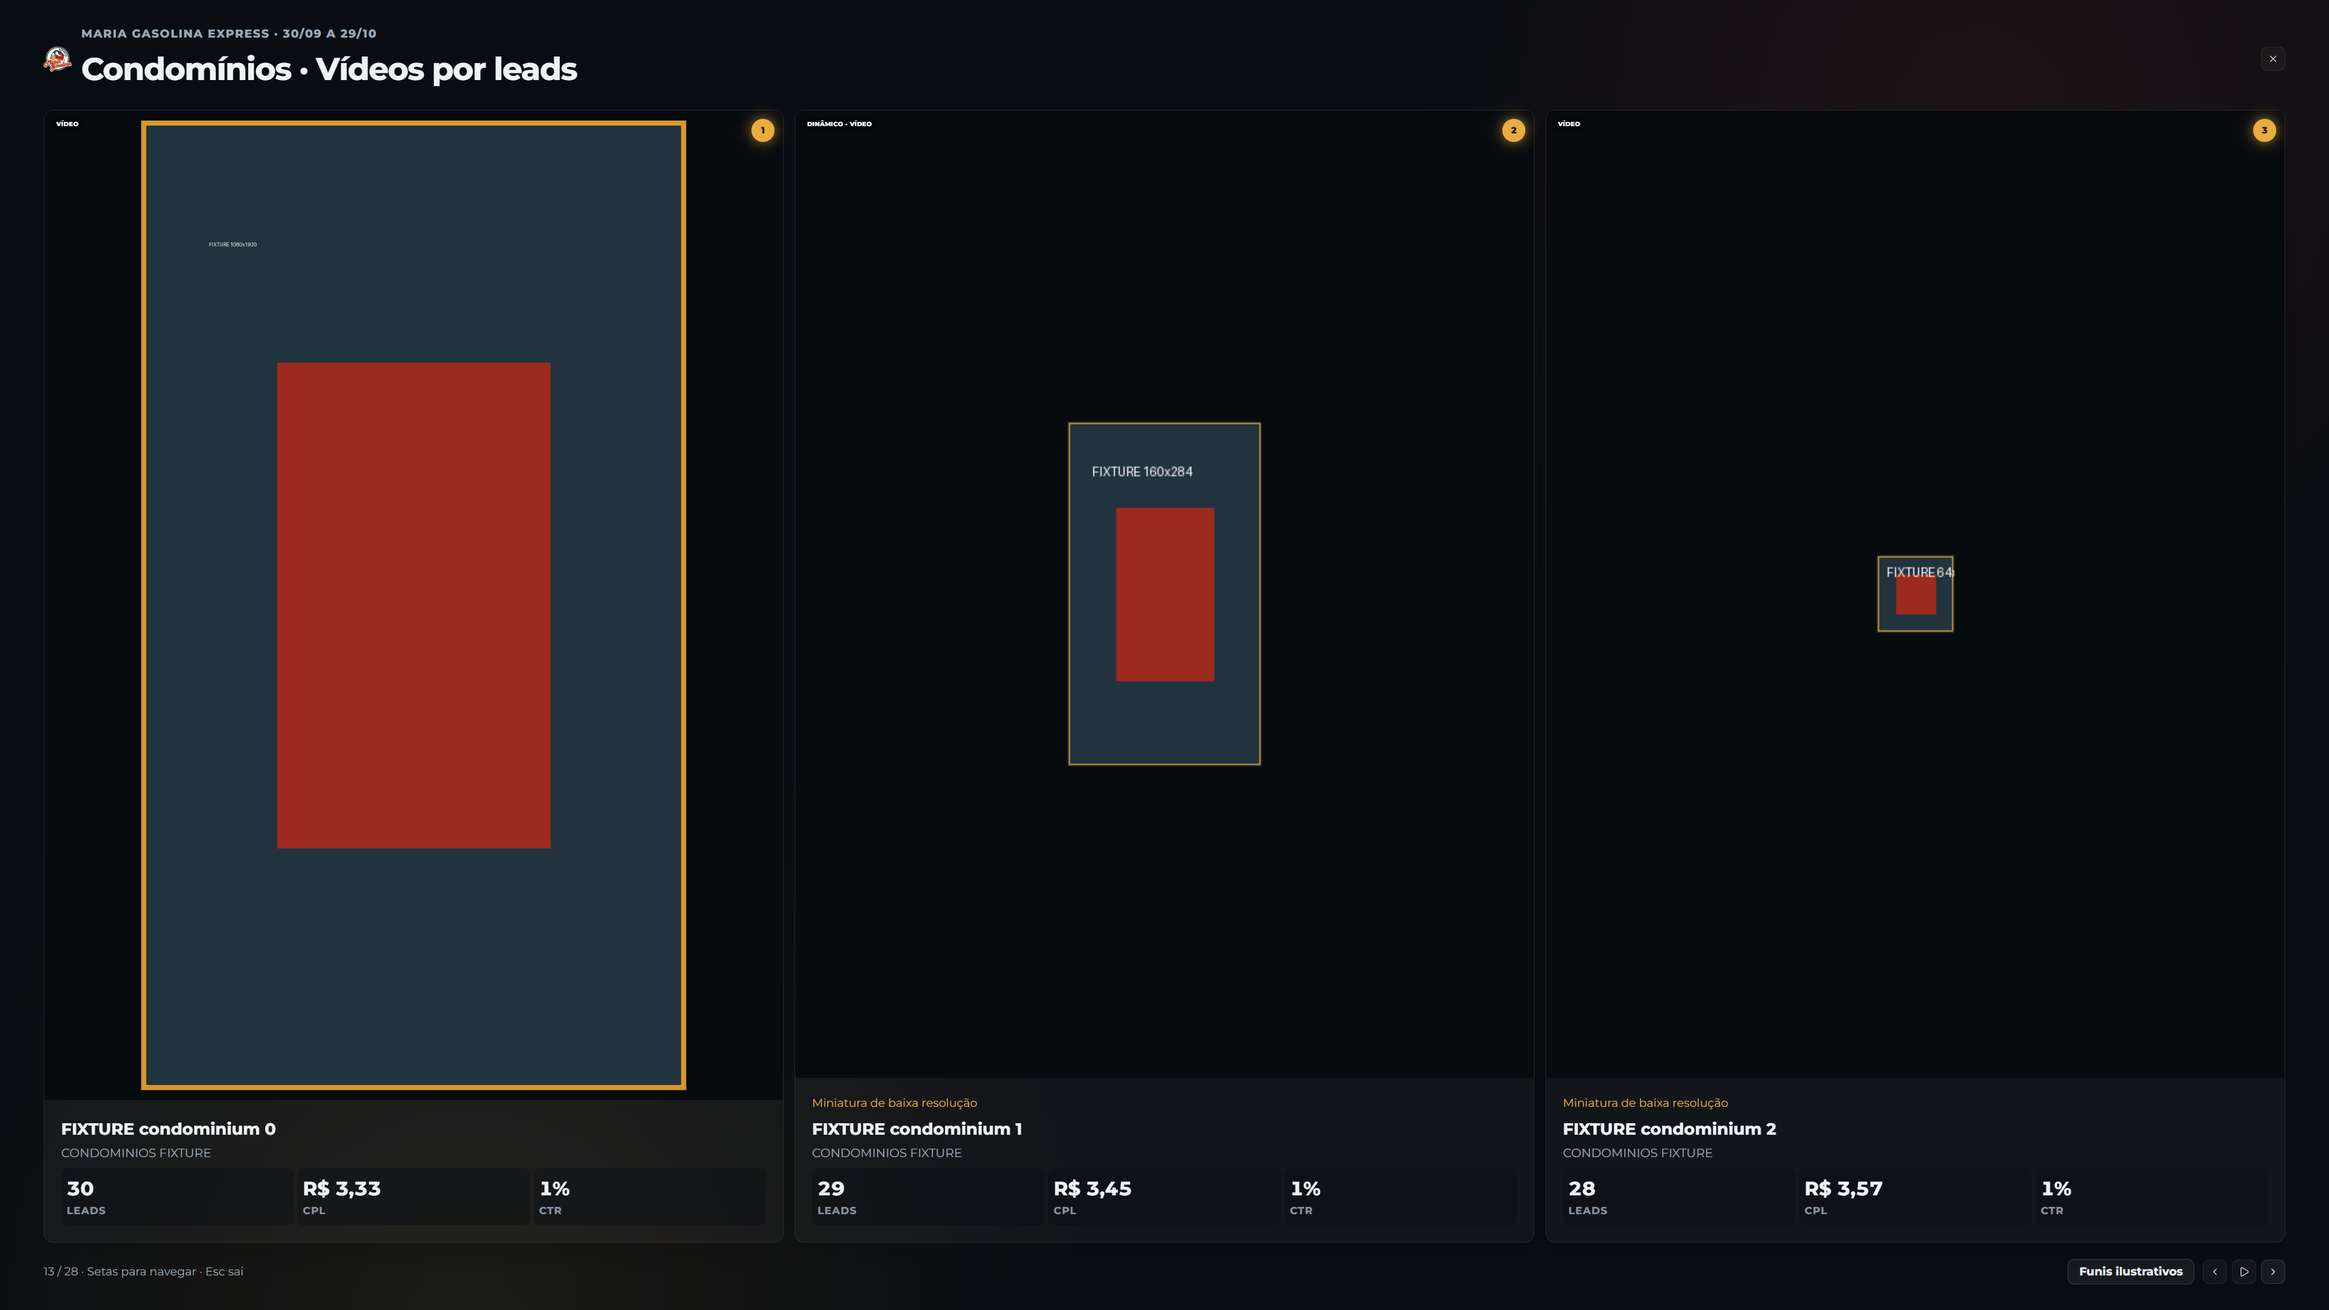
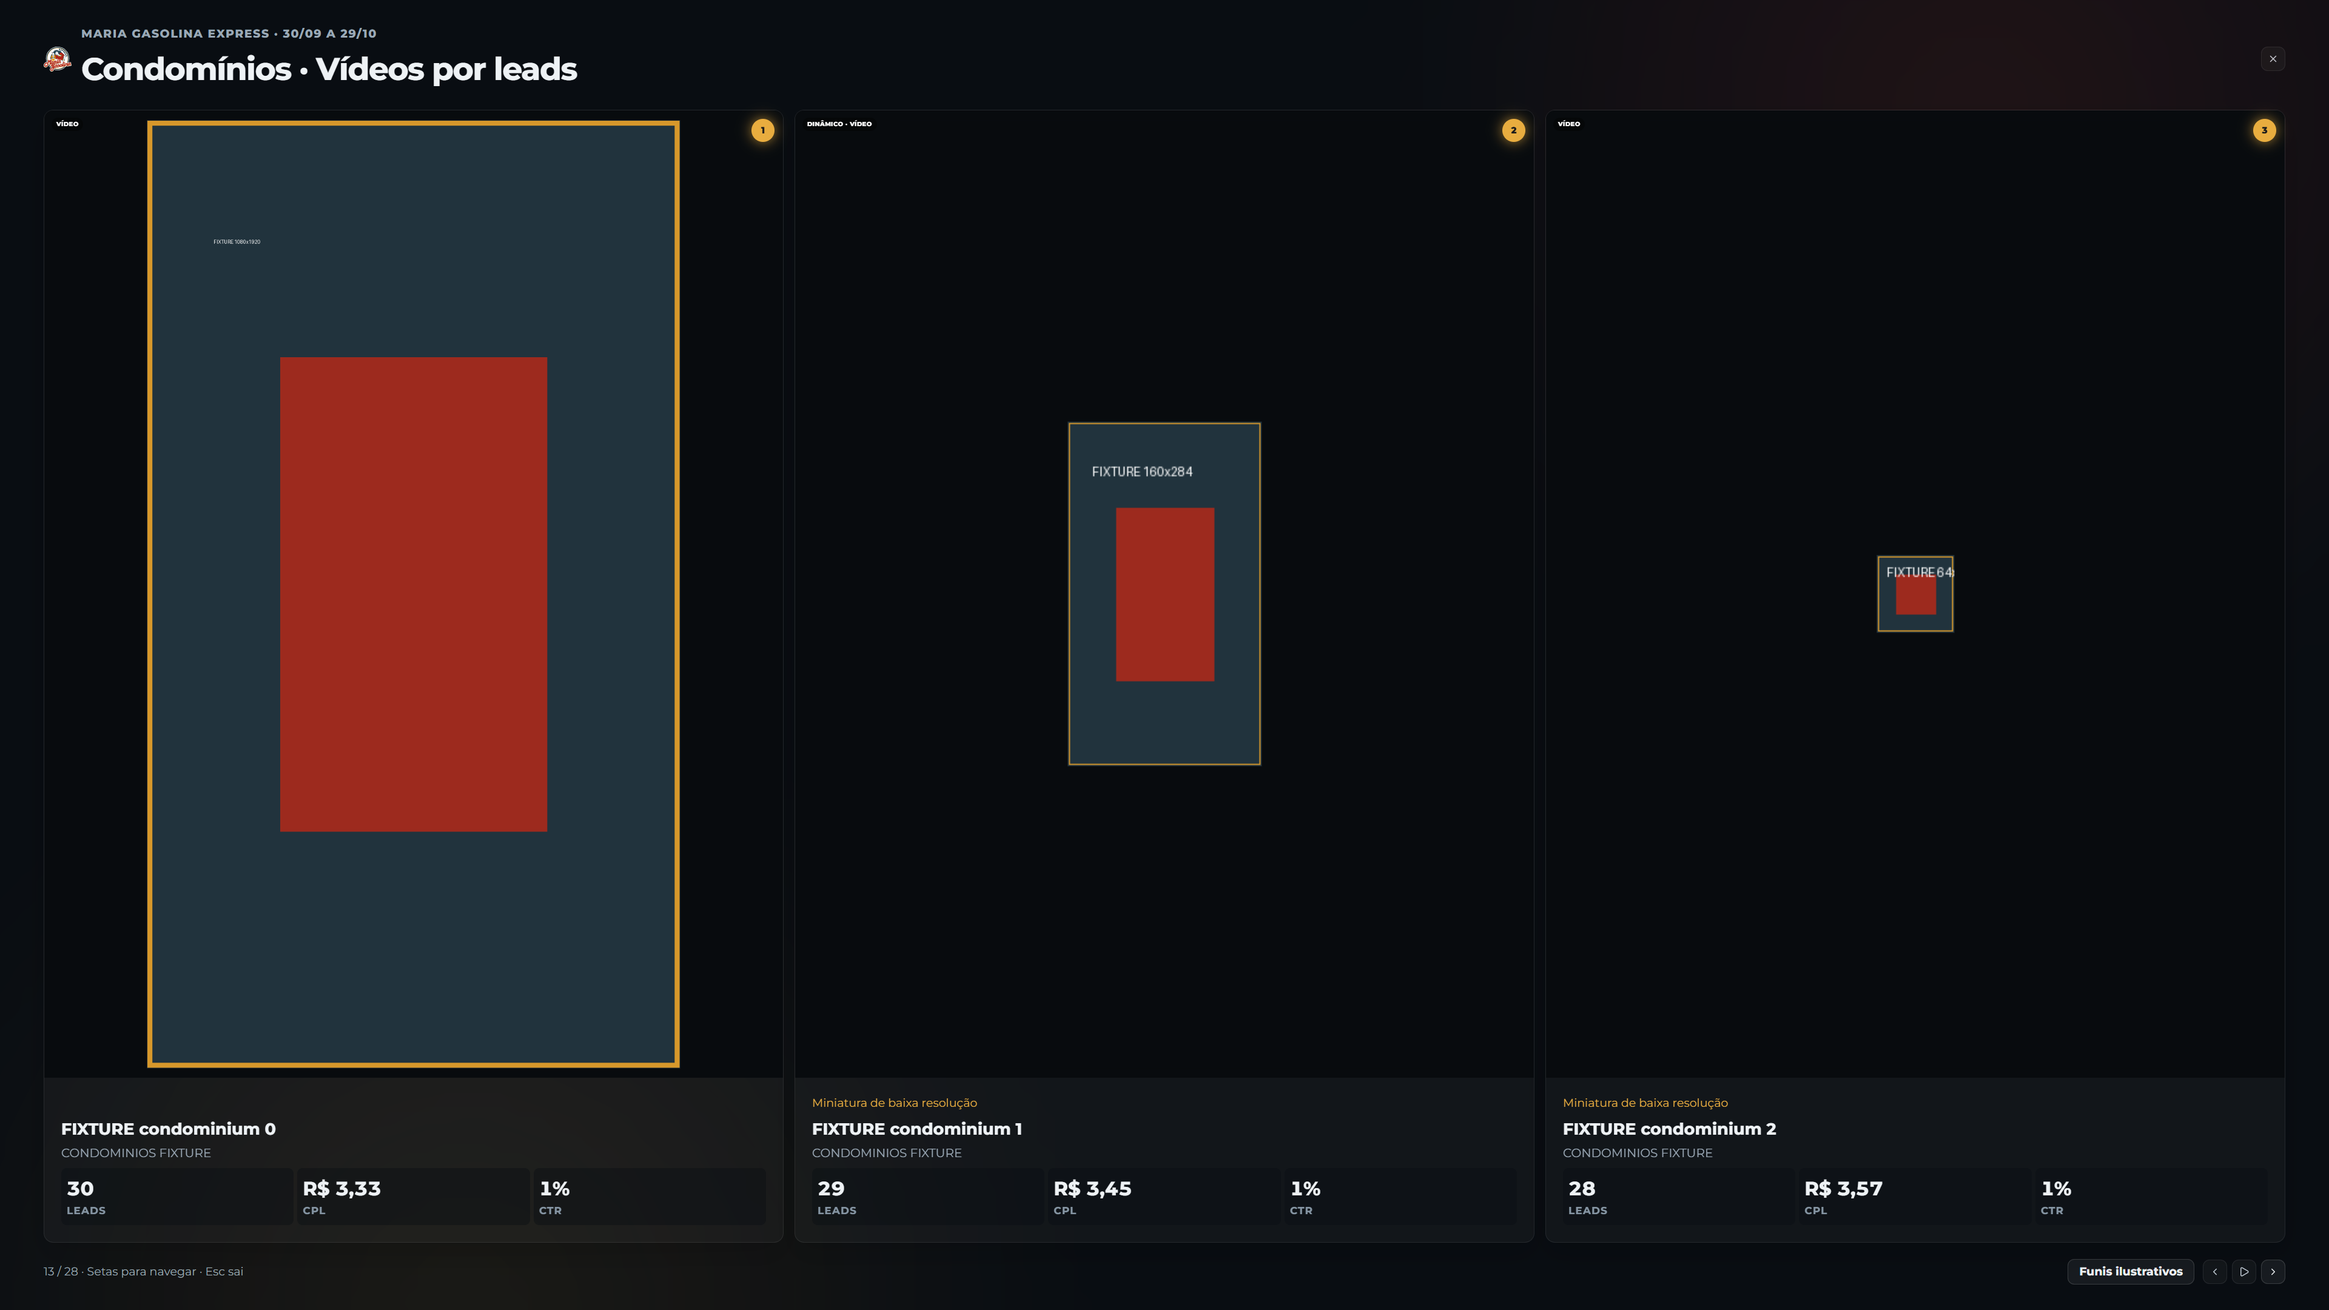
fix(creatives): standardize both card containers at 9:16

Changed region(s): [[0.0625, 0.0931, 0.3125, 0.8375], [0.125, 0.6204, 0.25, 0.6514], [0.125, 0.2481, 0.2188, 0.2792]]

diff --git a/src/styles.css b/src/styles.css
@@ -540,7 +540,7 @@ tbody tr:hover { background: var(--surface-2); }
 
 /* ------------------------------------------------------------ creatives */
 .creative-grid { display: grid; grid-template-columns: repeat(3, minmax(0, 1fr)); gap: 18px; }
-.creative { position: relative; min-width: 0; overflow: hidden; border-radius: 16px; border: 1px solid var(--line); background: var(--surface); transition: transform .35s cubic-bezier(.2,.7,.2,1), box-shadow .35s, border-color .25s; }
+.creative { display: flex; flex-direction: column; position: relative; min-width: 0; overflow: hidden; border-radius: 16px; border: 1px solid var(--line); background: var(--surface); transition: transform .35s cubic-bezier(.2,.7,.2,1), box-shadow .35s, border-color .25s; }
 .creative-top { box-shadow: 0 18px 46px rgba(0,0,0,.14); }
 .creative:hover { transform: perspective(1000px) translateY(-5px) rotateX(var(--tilt-x, 2deg)) rotateY(var(--tilt-y, 0deg)); border-color: var(--line-2); box-shadow: var(--shadow); }
 .creative-art { position: relative; aspect-ratio: 4 / 5; display: flex; align-items: flex-end; padding: 16px; color: #fff; background: linear-gradient(135deg, var(--c1), var(--c2)); }
@@ -549,7 +549,7 @@ tbody tr:hover { background: var(--surface-2); }
 .creative-zoom img { display: block; width: 100%; height: 100%; object-fit: contain; }
 .creative-art-preview { background: #080b0e; }
 .creative-art-vertical { aspect-ratio: 9 / 16; }
-.creative-art-static { aspect-ratio: 4 / 5; }
+.creative-art-static { aspect-ratio: 9 / 16; }
 .creative-art-static.creative-art-preview { background: var(--surface-2); }
 .creative-section-head { flex-wrap: wrap; gap: 14px; }
 .creative-section-head > div:first-child { flex: 1 1 260px; min-width: 0; }
@@ -564,8 +564,9 @@ tbody tr:hover { background: var(--surface-2); }
 .creative-art .format { position: absolute; top: 12px; left: 12px; z-index: 2; display: inline-flex; align-items: center; gap: 5px; padding: 4px 8px; border-radius: 999px; background: rgba(0,0,0,.4); backdrop-filter: blur(8px); font-size: 9.5px; font-weight: 800; text-transform: uppercase; letter-spacing: .08em; pointer-events: none; }
 .creative-art .rank { position: absolute; top: 14px; right: 14px; z-index: 2; display: grid; place-items: center; width: 38px; height: 38px; border-radius: 50%; background: var(--gold); color: #1b1b1b; font-size: 15px; font-weight: 850; box-shadow: 0 0 22px color-mix(in srgb, var(--gold) 75%, transparent); pointer-events: none; }
 .creative-art .rank-secondary { width: 30px; height: 30px; background: rgba(10,13,17,.72); color: #fff; border: 1px solid rgba(255,255,255,.32); box-shadow: none; font-size: 12px; }
-.creative-body { padding: 16px; }
-.creative-copy { min-width: 0; }
+.creative-body { padding: 16px; display: flex; flex-direction: column; flex: 1; }
+.creative-status { min-height: 24px; }
+.creative-copy { min-width: 0; flex: 1; }
 .creative-copy strong { display: -webkit-box; min-height: 38px; overflow: hidden; color: var(--text); font-size: 13px; font-weight: 750; line-height: 1.45; -webkit-box-orient: vertical; -webkit-line-clamp: 2; }
 .creative-copy small { display: block; margin-top: 5px; color: var(--muted); font-size: 10.5px; overflow: hidden; text-overflow: ellipsis; white-space: nowrap; }
 .creative-stats { margin-top: 10px; display: grid; grid-template-columns: repeat(3, 1fr); gap: 6px; }

diff --git a/tests/creative-categories.spec.ts b/tests/creative-categories.spec.ts
@@ -38,6 +38,8 @@ for (const [width, height] of [[1440, 1000], [390, 844]]) {
       await expect(section.getByRole("tab")).toHaveText(["Vídeos", "Estáticos"]);
       const kpis = await page.locator("[data-testid=front-individual] .kpi-value").allTextContents();
       await capture(page, `${front}-${width}-videos`);
+      const heights=await section.locator(".creative").evaluateAll(els=>els.map(el=>(el as HTMLElement).offsetHeight));
+      expect(Math.max(...heights)-Math.min(...heights)).toBeLessThanOrEqual(1);
       await section.getByRole("button", { name: "Ver mais criativos", exact: true }).click();
       await expect(section.locator(".creative")).toHaveCount(9);
       await imagesLoaded(page);
@@ -59,7 +61,7 @@ for (const [width, height] of [[1440, 1000], [390, 844]]) {
       await imagesLoaded(page);
       expect(await section.locator(".rank").allTextContents()).toEqual(["1","2","3","4","5","6","7","8","9"]);
       const art = await section.locator(".creative-art").evaluateAll(els=>els.map(el=>{const r=el.getBoundingClientRect();return {ratio:r.width/r.height,height:r.height};}));
-      for(const box of art) expect(box.ratio).toBeCloseTo(4/5,2);
+      for(const box of art) expect(box.ratio).toBeCloseTo(9/16,2);
       expect(Math.max(...art.map(a=>a.height))-Math.min(...art.map(a=>a.height))).toBeLessThan(1);
       expect(await section.locator(".creative img").evaluateAll(imgs=>imgs.every(img=>getComputedStyle(img).objectFit==="contain"))).toBe(true);
       for(const [index,dimensions] of [[12,"1080 × 1920"],[13,"1920 × 1080"]] as const) {
@@ -99,7 +101,7 @@ for (const [width,height] of [[3840,2160],[1440,900],[390,844]]) test(`apresenta
       expect((await slide.locator(".rank").allTextContents())[0]).toBe(String(offset+1));
       await expect(slide.locator(category==="video"?".creative-art-video":".creative-art-static")).toHaveCount(width<700?1:3);
       const mediaRatios=await slide.locator(".creative-zoom").evaluateAll(els=>els.map(el=>{const r=el.getBoundingClientRect();return r.width/r.height;}));
-      for(const ratio of mediaRatios) expect(ratio).toBeCloseTo(category==="video"?9/16:4/5,2);
+      for(const ratio of mediaRatios) expect(ratio).toBeCloseTo(9/16,2);
       const issues=await page.locator(".responsive-present").evaluate(el=>{
         const issues=[]; if(el.scrollHeight>el.clientHeight+2||el.scrollWidth>el.clientWidth+2)issues.push("overflow");
         for(const c of el.querySelectorAll(".creative,.present-controls")){const r=c.getBoundingClientRect();if(r.left<0||r.right>innerWidth+1||r.top<0||r.bottom>innerHeight+1)issues.push("outside");}return issues;

diff --git a/src/presentation.css b/src/presentation.css
@@ -50,10 +50,11 @@
 .present.responsive-present .creative-art-vertical { container-type: size; }
 .present.responsive-present .creative-art-vertical .creative-zoom { inset: auto; left: 50%; top: 50%; transform: translate(-50%, -50%); width: min(100cqw, calc(100cqh * 9 / 16)); height: min(100cqh, calc(100cqw * 16 / 9)); aspect-ratio: 9 / 16; }
 .present.responsive-present .creative-art-static { container-type: size; }
-.present.responsive-present .creative-art-static .creative-zoom { inset: auto; left: 50%; top: 50%; transform: translate(-50%, -50%); width: min(100cqw, calc(100cqh * 4 / 5)); height: min(100cqh, calc(100cqw * 5 / 4)); aspect-ratio: 4 / 5; }
+.present.responsive-present .creative-art-static .creative-zoom { inset: auto; left: 50%; top: 50%; transform: translate(-50%, -50%); width: min(100cqw, calc(100cqh * 9 / 16)); height: min(100cqh, calc(100cqw * 16 / 9)); aspect-ratio: 9 / 16; }
 .present.responsive-present .creative-body { padding: clamp(12px, 1.2vw, 28px); }
 .present.responsive-present .creative-copy strong { min-height: 0; font-size: clamp(12px, 1.15vw, 27px); }
 .present.responsive-present .creative-copy small { font-size: clamp(10px, .9vw, 20px); }
+.present.responsive-present .creative-status { min-height: calc(clamp(10px, .85vw, 19px) * 1.5 + 8px); }
 .present.responsive-present .creative-resolution { font-size: clamp(10px, .85vw, 19px); }
 .present.responsive-present .creative-stats b { white-space: nowrap; font-size: clamp(14px, 1.45vw, 32px); }
 .present.responsive-present .creative-stats span { font-size: clamp(9px, .75vw, 17px); }

diff --git a/src/views/FrontView.tsx b/src/views/FrontView.tsx
@@ -392,10 +392,12 @@ export function CreativeCard({ c, rank, revealed = false }: { c: Creative; rank:
         {!image && <h4>{c.headline}</h4>}
       </div>
       <div className="creative-body">
+        <div className="creative-status">
         {image && quality.limited && <p className="creative-resolution creative-resolution-limited">
           Miniatura de baixa resolução
         </p>}
         {!image && <p className="creative-resolution" role="status">Imagem indisponível no momento</p>}
+        </div>
         <div className="creative-copy">
           <strong title={c.name}>{c.name}</strong>
           <small title={c.headline}>{c.headline}</small>

diff --git a/tests/meta-preview-quality.spec.ts b/tests/meta-preview-quality.spec.ts
@@ -93,7 +93,7 @@ for (const [width, height] of [
         .click();
       await expect(page.locator(".creative")).toHaveCount(9);
       await page.getByRole("tab", {name:"Estáticos",exact:true}).click();
-      await inspectImage(page, `FIXTURE ${front} 3`, 1080, 1350, 4 / 5);
+      await inspectImage(page, `FIXTURE ${front} 3`, 1080, 1350, 9 / 16);
       await page.getByRole("tab", {name:"Vídeos",exact:true}).click();
       await page.getByRole("button", {name:"Ver mais criativos",exact:true}).click();
       const names = await page

diff --git a/docs/creative-rankings-by-type/README.md b/docs/creative-rankings-by-type/README.md
@@ -1,4 +1,4 @@
-# Criativos por tipo — revisão de 30/10/2026
+# Criativos por tipo — revisão de 30/10/2026 — containers uniformes 9:16
 
 Branch: `codex/creative-rankings-by-type`, criada a partir de `baae2747195ffd33bdb65a56ca42e801fa455a9c` (`main`, merge do PR #10).
 
@@ -6,7 +6,7 @@ Branch: `codex/creative-rankings-by-type`, criada a partir de `baae2747195ffd33b
 
 Uma única seção usa o `Segmented` existente com **Vídeos** e **Estáticos**. Frente → Meta Ads → representação → leads decrescentes → ID como desempate → Top 3/9. O tipo é filtrado antes de qualquer limite. Cada ranking começa em 1; alternar categoria reinicia a expansão. A seção é remontada pela chave frente/período, impedindo reutilização do estado anterior. A categoria inicial prioriza vídeos e, na ausência deles, estáticos. Categorias vazias continuam selecionáveis, com mensagem própria.
 
-Vídeos conservam 9:16, `contain`, qualidade, renovação de URL e modal. Estáticos têm área uniforme 4:5 e fundo neutro do tema; imagens quadradas, verticais e horizontais permanecem inteiras. O tamanho nativo limita a ampliação dos estáticos, incluindo arquivos pequenos. A apresentação tem páginas separadas por tipo, até nove de cada, com numeração e categoria preservadas no redimensionamento. Seu enquadramento 4:5 se adapta ao espaço disponível, assim como o enquadramento 9:16 existente.
+Vídeos conservam 9:16, `contain`, qualidade, renovação de URL e modal. Estáticos têm área uniforme 9:16 e fundo neutro do tema; imagens quadradas, verticais e horizontais permanecem inteiras. O tamanho nativo limita a ampliação dos estáticos, incluindo arquivos pequenos. A apresentação tem páginas separadas por tipo, até nove de cada, com numeração e categoria preservadas no redimensionamento. Seu enquadramento 9:16 se adapta ao espaço disponível, assim como o enquadramento 9:16 existente.
 
 ## Classificação e desempenho
 
@@ -23,7 +23,7 @@ Vídeos conservam 9:16, `contain`, qualidade, renovação de URL e modal. Estát
 
 ### A mesma imagem estática antes/depois
 
-O arquivo 1080×1350 era colocado em área 9:16 por ser vertical. Agora a área 4:5 acompanha esse formato, reduzindo espaço vazio; a mudança de posição de 4 para 1 corresponde ao ranking independente.
+Revisão de prioridade: os dois grupos agora usam o mesmo container 9:16. A mídia mantém a proporção nativa com `contain`; os estáticos têm faixas neutras e não são ampliados além do tamanho nativo. O espaço de aviso de resolução é reservado em todos os cards, mantendo altura e alinhamento. A mudança da posição 4 para 1 corresponde ao ranking independente.
 
 | Frente / tela | Antes (`main`) | Depois |
 | --- | --- | --- |
@@ -31,8 +31,6 @@ O arquivo 1080×1350 era colocado em área 9:16 por ser vertical. Agora a área 
 | Condomínios · desktop | ![Antes Condomínios](images/condominium-1440-before-static-card.png) | ![Depois Condomínios](images/condominium-1440-after-static-card.png) |
 | Franquias · mobile | ![Antes mobile Franquias](images/franchise-390-before-static-card.png) | ![Depois mobile Franquias](images/franchise-390-after-static-card.png) |
 | Condomínios · mobile | ![Antes mobile Condomínios](images/condominium-390-before-static-card.png) | ![Depois mobile Condomínios](images/condominium-390-after-static-card.png) |
-
-Na comparação medida, o card estático passou de **814 para 619 px** no desktop (largura 371 px) e de **791 para 603 px** no mobile (largura 358 px), cerca de 24% menos altura. O arquivo, seu conteúdo integral e a largura foram mantidos.
 
 ### Seção completa
 
@@ -54,7 +52,8 @@ Na comparação medida, o card estático passou de **814 para 619 px** no deskto
 
 | Verificação | Resultado |
 | --- | --- |
-| Vitest: 56 arquivos do frontend | **645 testes aprovados** |
+| Regressão anterior do PR: 56 arquivos do frontend | **645 testes aprovados** |
+| Revisão 9:16: quatro arquivos de cards, seção e apresentação | **32 testes aprovados** |
 | Playwright: categorias, ranking, frente/período, fullscreen e apresentação | **8 cenários aprovados** |
 | Playwright: regressão existente de previews, renovação e modal | **6 cenários aprovados** |
 | Comparativo com código da main | **4 cenários aprovados** |
@@ -63,6 +62,8 @@ Na comparação medida, o card estático passou de **814 para 619 px** no deskto
 | Build Vite + preparação do pacote | Aprovado |
 | `tests/sites-worker.test.mjs` | **4 testes aprovados** |
 | Diff/escopo e links das 20 imagens | Aprovados |
+
+A revisão 9:16 passou em tipos, build, 32 testes dirigidos, oito cenários de categorias/apresentação e seis de previews, mais quatro de empacotamento. A suíte ampla de 645 testes pertence ao primeiro commit do PR.
 
 Após timeouts locais na tentativa concorrente, a rodada final foi concluída sequencialmente. O Vitest usou dois workers e timeout de 15 segundos por teste nessa rodada, excluindo `artifacts/**` e `.npm-cache/**` para não executar cópias locais de código/dependências. Nenhum teste da aplicação foi removido. O build conserva o aviso de chunks grandes, também observado no baseline.
 
@@ -81,7 +82,7 @@ Isso comprova a regressão local do frontend; não representa uma publicação o
 - `src/lib/api.ts`: classificação antes de selecionar URLs.
 - `src/lib/creative-previews.ts`: leitura de metadados e seleção limitada para assinatura, mantendo autenticação/cache.
 - `src/views/Presentation.tsx`, `src/lib/presentation-layout.ts`, `src/presentation.css`: páginas por tipo e enquadramento responsivo.
-- `src/styles.css`: área 4:5, fundo neutro e cabeçalho responsivo.
+- `src/styles.css`: área 9:16, fundo neutro e cabeçalho responsivo.
 
 Testes: `src/views/CreativeSection.test.tsx`, `src/lib/creatives.test.ts`, `src/lib/creative-previews.test.ts`, `src/lib/presentation-layout.test.ts`, `tests/creative-categories.spec.ts`, `tests/meta-preview-quality.spec.ts` e ajuste de ID esperado em `e2e/uiux-legibility.spec.ts`. Suporte: `playwright.creative-categories.config.ts`, `tests/serve-creative-categories-test.mjs`, `tests/fixtures/meta-preview-app.ts`, `tests/fixtures/meta-previews/generate.py` e `square.png`. Este relatório e suas imagens completam a entrega.
 
